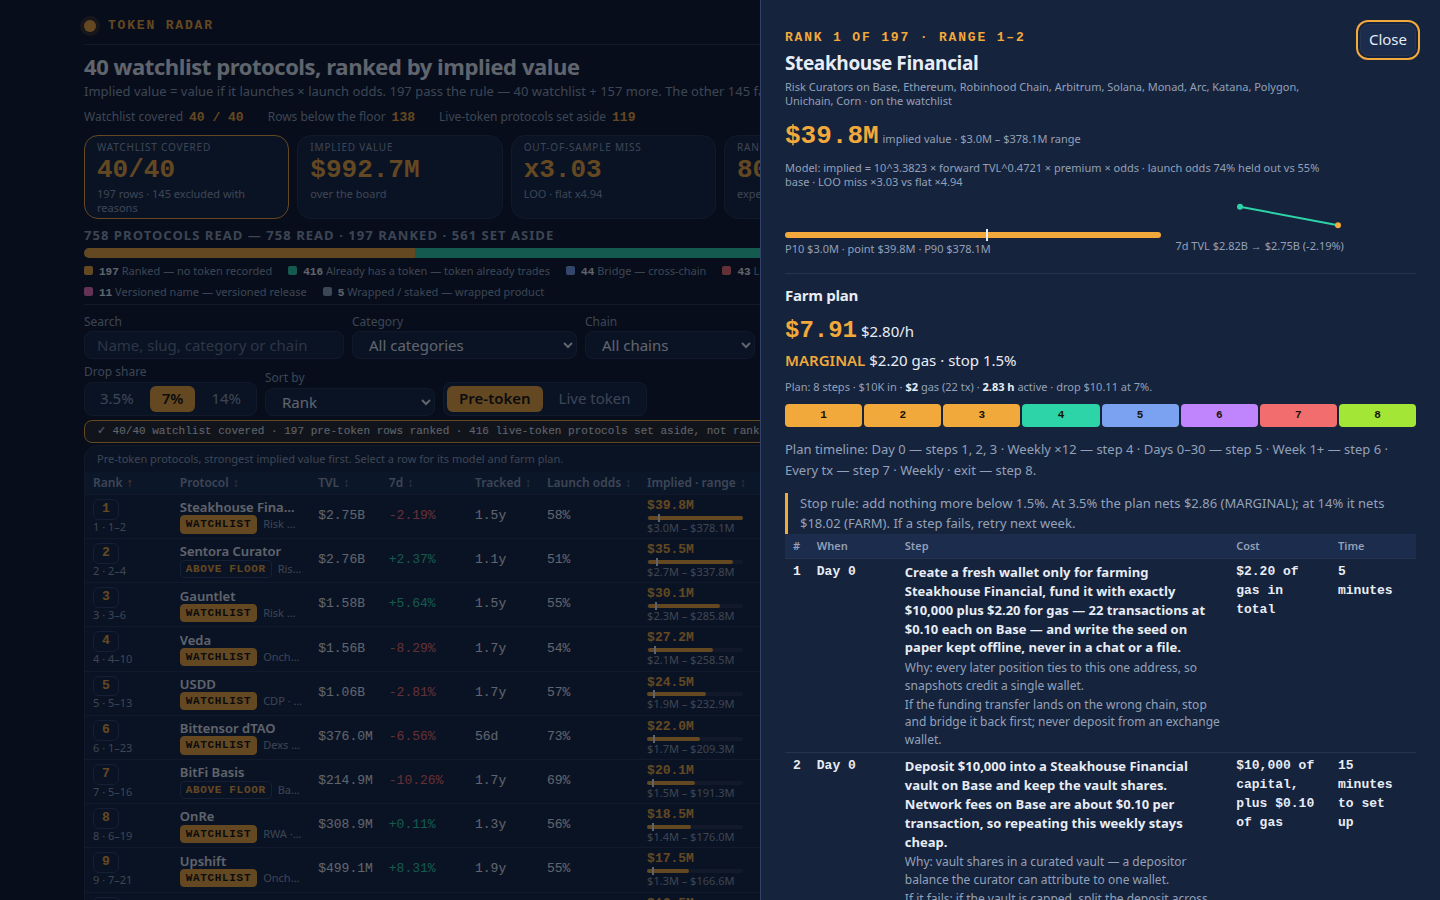
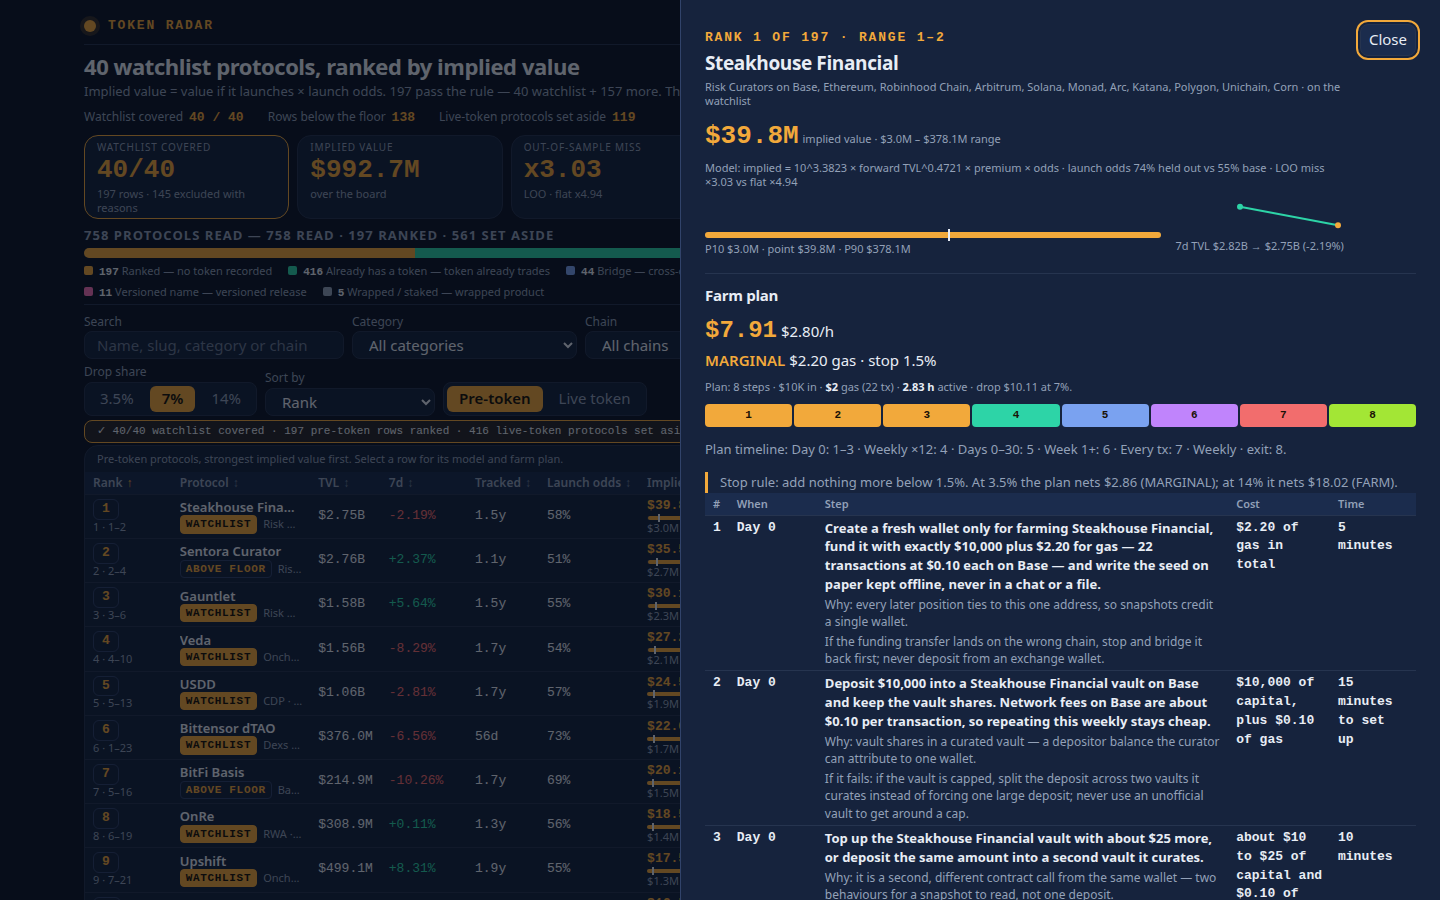
token-radar-01: comps-15 — denser detail view (wider dialog, one-line timeline, trimmed stop rule) so shot 2 shows 3 farm steps; model unchanged

diff --git a/dashboard/app.js b/dashboard/app.js
@@ -395,12 +395,12 @@ return '<tr><td class="num">' + (i + 1) + '</td><td class="num">' + esc(whenOf(p
 var stepsHtml = '<table class="farm"><thead><tr><th>#</th><th>When</th><th>Step</th><th>Cost</th><th>Time</th></tr></thead><tbody>' + steps + '</tbody></table>';
 var tl = [];
 (row.farm_steps || []).forEach(function (st, i) { var pp = parseStep(st); if (!pp) return; var w = whenOf(pp.action, row.hold_days || 30); var g = tl[tl.length - 1]; if (g && g[0] === w) g[1].push(i + 1); else tl.push([w, [i + 1]]); });
-var timeline = '<p class="why">Plan timeline: ' + tl.map(function (g) { return g[0] + ' — step' + (g[1].length > 1 ? 's ' : ' ') + g[1].join(', '); }).join(' · ') + '.</p>';
+var timeline = '<p class="why">Plan timeline: ' + tl.map(function (g) { return g[0] + ': ' + g[1][0] + (g[1].length > 1 ? '–' + g[1][g[1].length - 1] : ''); }).join(' · ') + '.</p>';
 function tlc(w){if(w==='Weekly · exit')return '#a3e635';if(w.indexOf('Weekly')===0)return '#2dd4a7';if(w.indexOf('Day 0')===0)return '#f2a93b';if(w.indexOf('Days')===0)return '#7aa2f0';if(w==='Week 1+')return '#c084fc';if(w==='Every tx')return '#f26d6d';return '#94a3b8';}
 var strip='<div class="tl" aria-hidden="true">'+(row.farm_steps||[]).map(function(st,i){var pp=parseStep(st);var w=pp?whenOf(pp.action,row.hold_days||30):'Day 0';return '<i style="background:'+tlc(w)+'">'+(i+1)+'</i>';}).join('')+'</div>';
 var n35=netAt(row,row.plan_size_usd||1000,0.035),v35=verdictAt(row,row.plan_size_usd||1000,0.035);
 var n14=netAt(row,row.plan_size_usd||1000,0.14),v14=verdictAt(row,row.plan_size_usd||1000,0.14);
-var stop='<p class="caveat">Stop rule: add nothing more below '+(beShare*100).toFixed(1)+'%. At 3.5% the plan nets '+fmtNet(n35)+' ('+v35+'); at 14% it nets '+fmtNet(n14)+' ('+v14+'). If a step fails, retry next week.</p>';
+var stop='<p class="caveat">Stop rule: add nothing more below '+(beShare*100).toFixed(1)+'%. At 3.5% the plan nets '+fmtNet(n35)+' ('+v35+'); at 14% it nets '+fmtNet(n14)+' ('+v14+').</p>';
 var comps = row.comparables || [];
 var compHtml = comps.length ? '<table class="mini comp"><thead><tr><th>Token that trades</th><th>TVL</th><th>MCAP</th><th>x TVL</th><th>Applied here</th></tr></thead><tbody>' +
 comps.map(function (p) { return '<tr><td>' + esc(p.name) + '</td><td class="num">' + esc(fmtUsd(p.tvl_usd)) + '</td><td class="num">' + esc(fmtUsd(p.mcap_usd)) + '</td><td class="num">' + esc(fmtMult(p.multiple)) + '</td><td class="num">' + esc(fmtUsd(p.applied_usd)) + '</td></tr>'; }).join('') + '</tbody></table>'

diff --git a/dashboard/app.css b/dashboard/app.css
@@ -105,7 +105,7 @@ td:first-child .sub{white-space:nowrap}
 .steps li{padding-left:var(--s1)}
 .steps b{display:block;font-weight:500}
 .farm{width:100%;font-size:13px;line-height:1.45;border-collapse:collapse}
-.farm th,.farm td{padding:4px 8px;border-bottom:1px solid var(--border);vertical-align:top;text-align:left}
+.farm th,.farm td{padding:3px 8px;border-bottom:1px solid var(--border);vertical-align:top;text-align:left}
 .farm thead th{position:static;color:var(--muted);font-size:11px}
 .farm td.num{white-space:normal;font-family:var(--font-num);font-size:13px;font-weight:700}
 .farm td:first-child{white-space:nowrap}
@@ -186,7 +186,7 @@ td:first-child .sub{white-space:nowrap}
 .duo .rangebar b{top:-3px;height:12px}
 .spark{flex:none;text-align:right}
 .spark svg{display:block;margin-left:auto}
-.detail{width:min(680px,96vw)}
+.detail{width:min(760px,96vw)}
 .vt{width:100%;font-size:13px;border-collapse:collapse}
 .vt th,.vt td{padding:var(--s2);border:1px solid var(--border);text-align:right}
 .vt th:first-child,.vt td:first-child{text-align:left}
